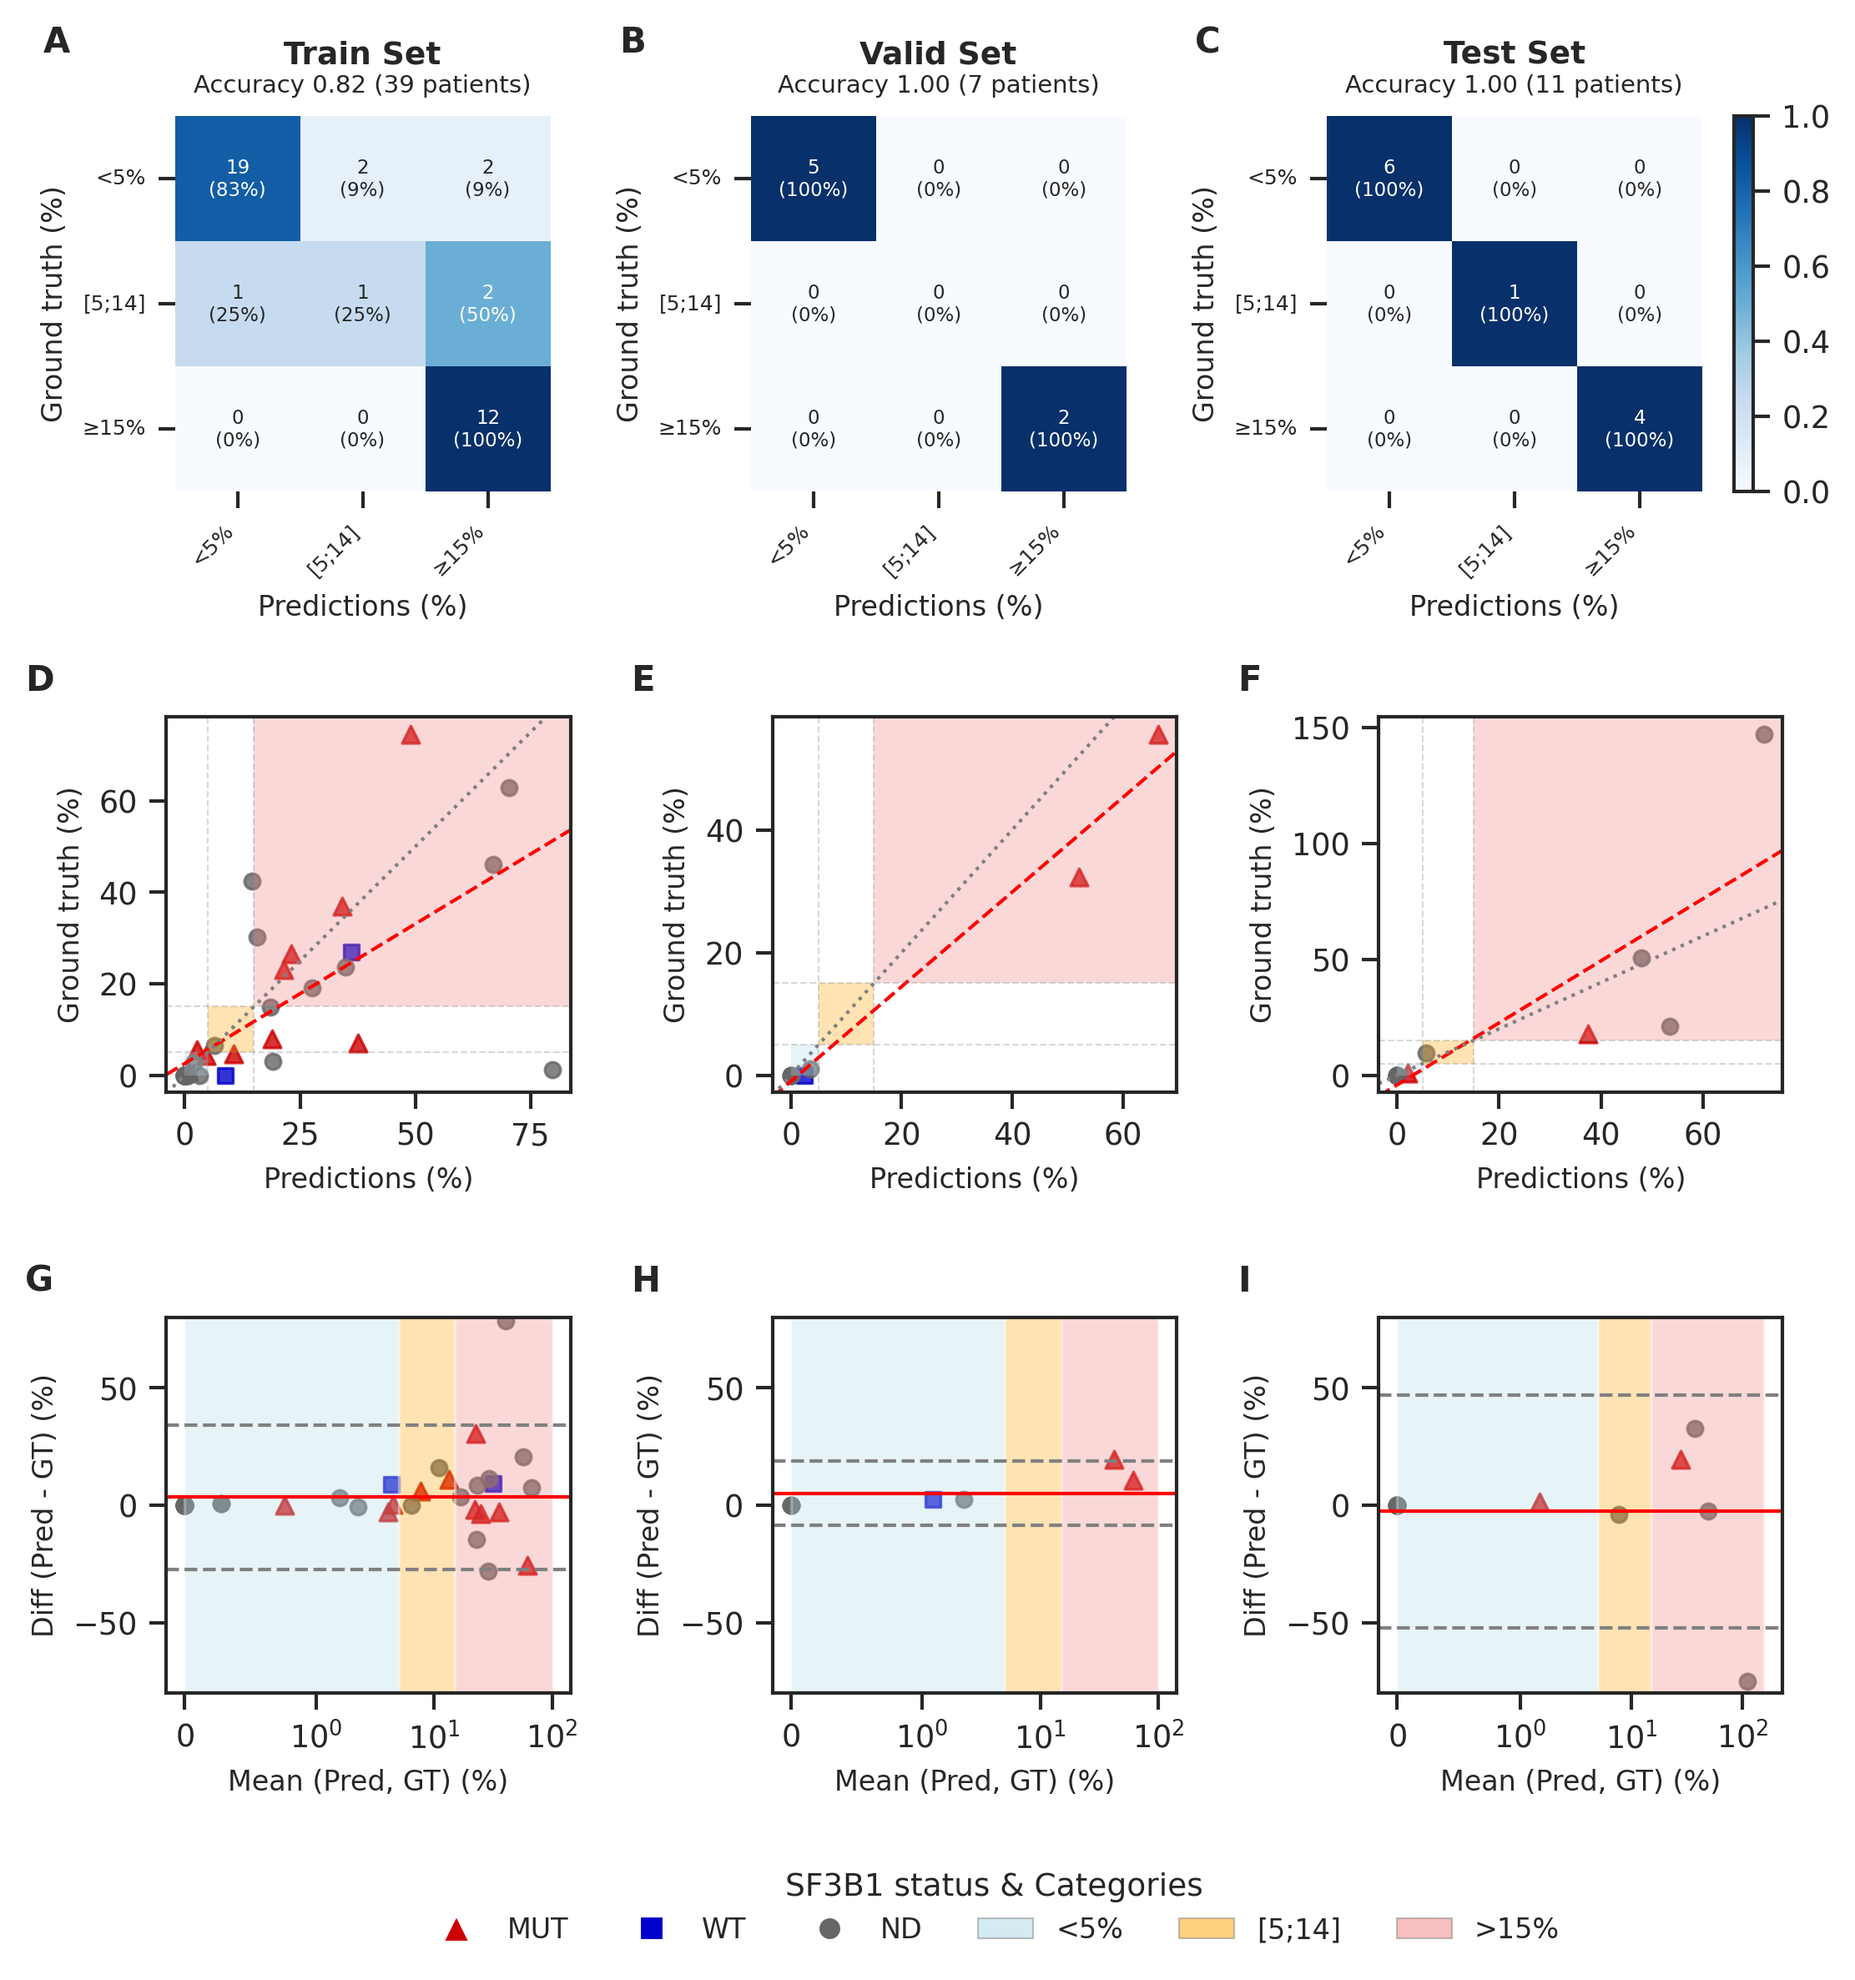
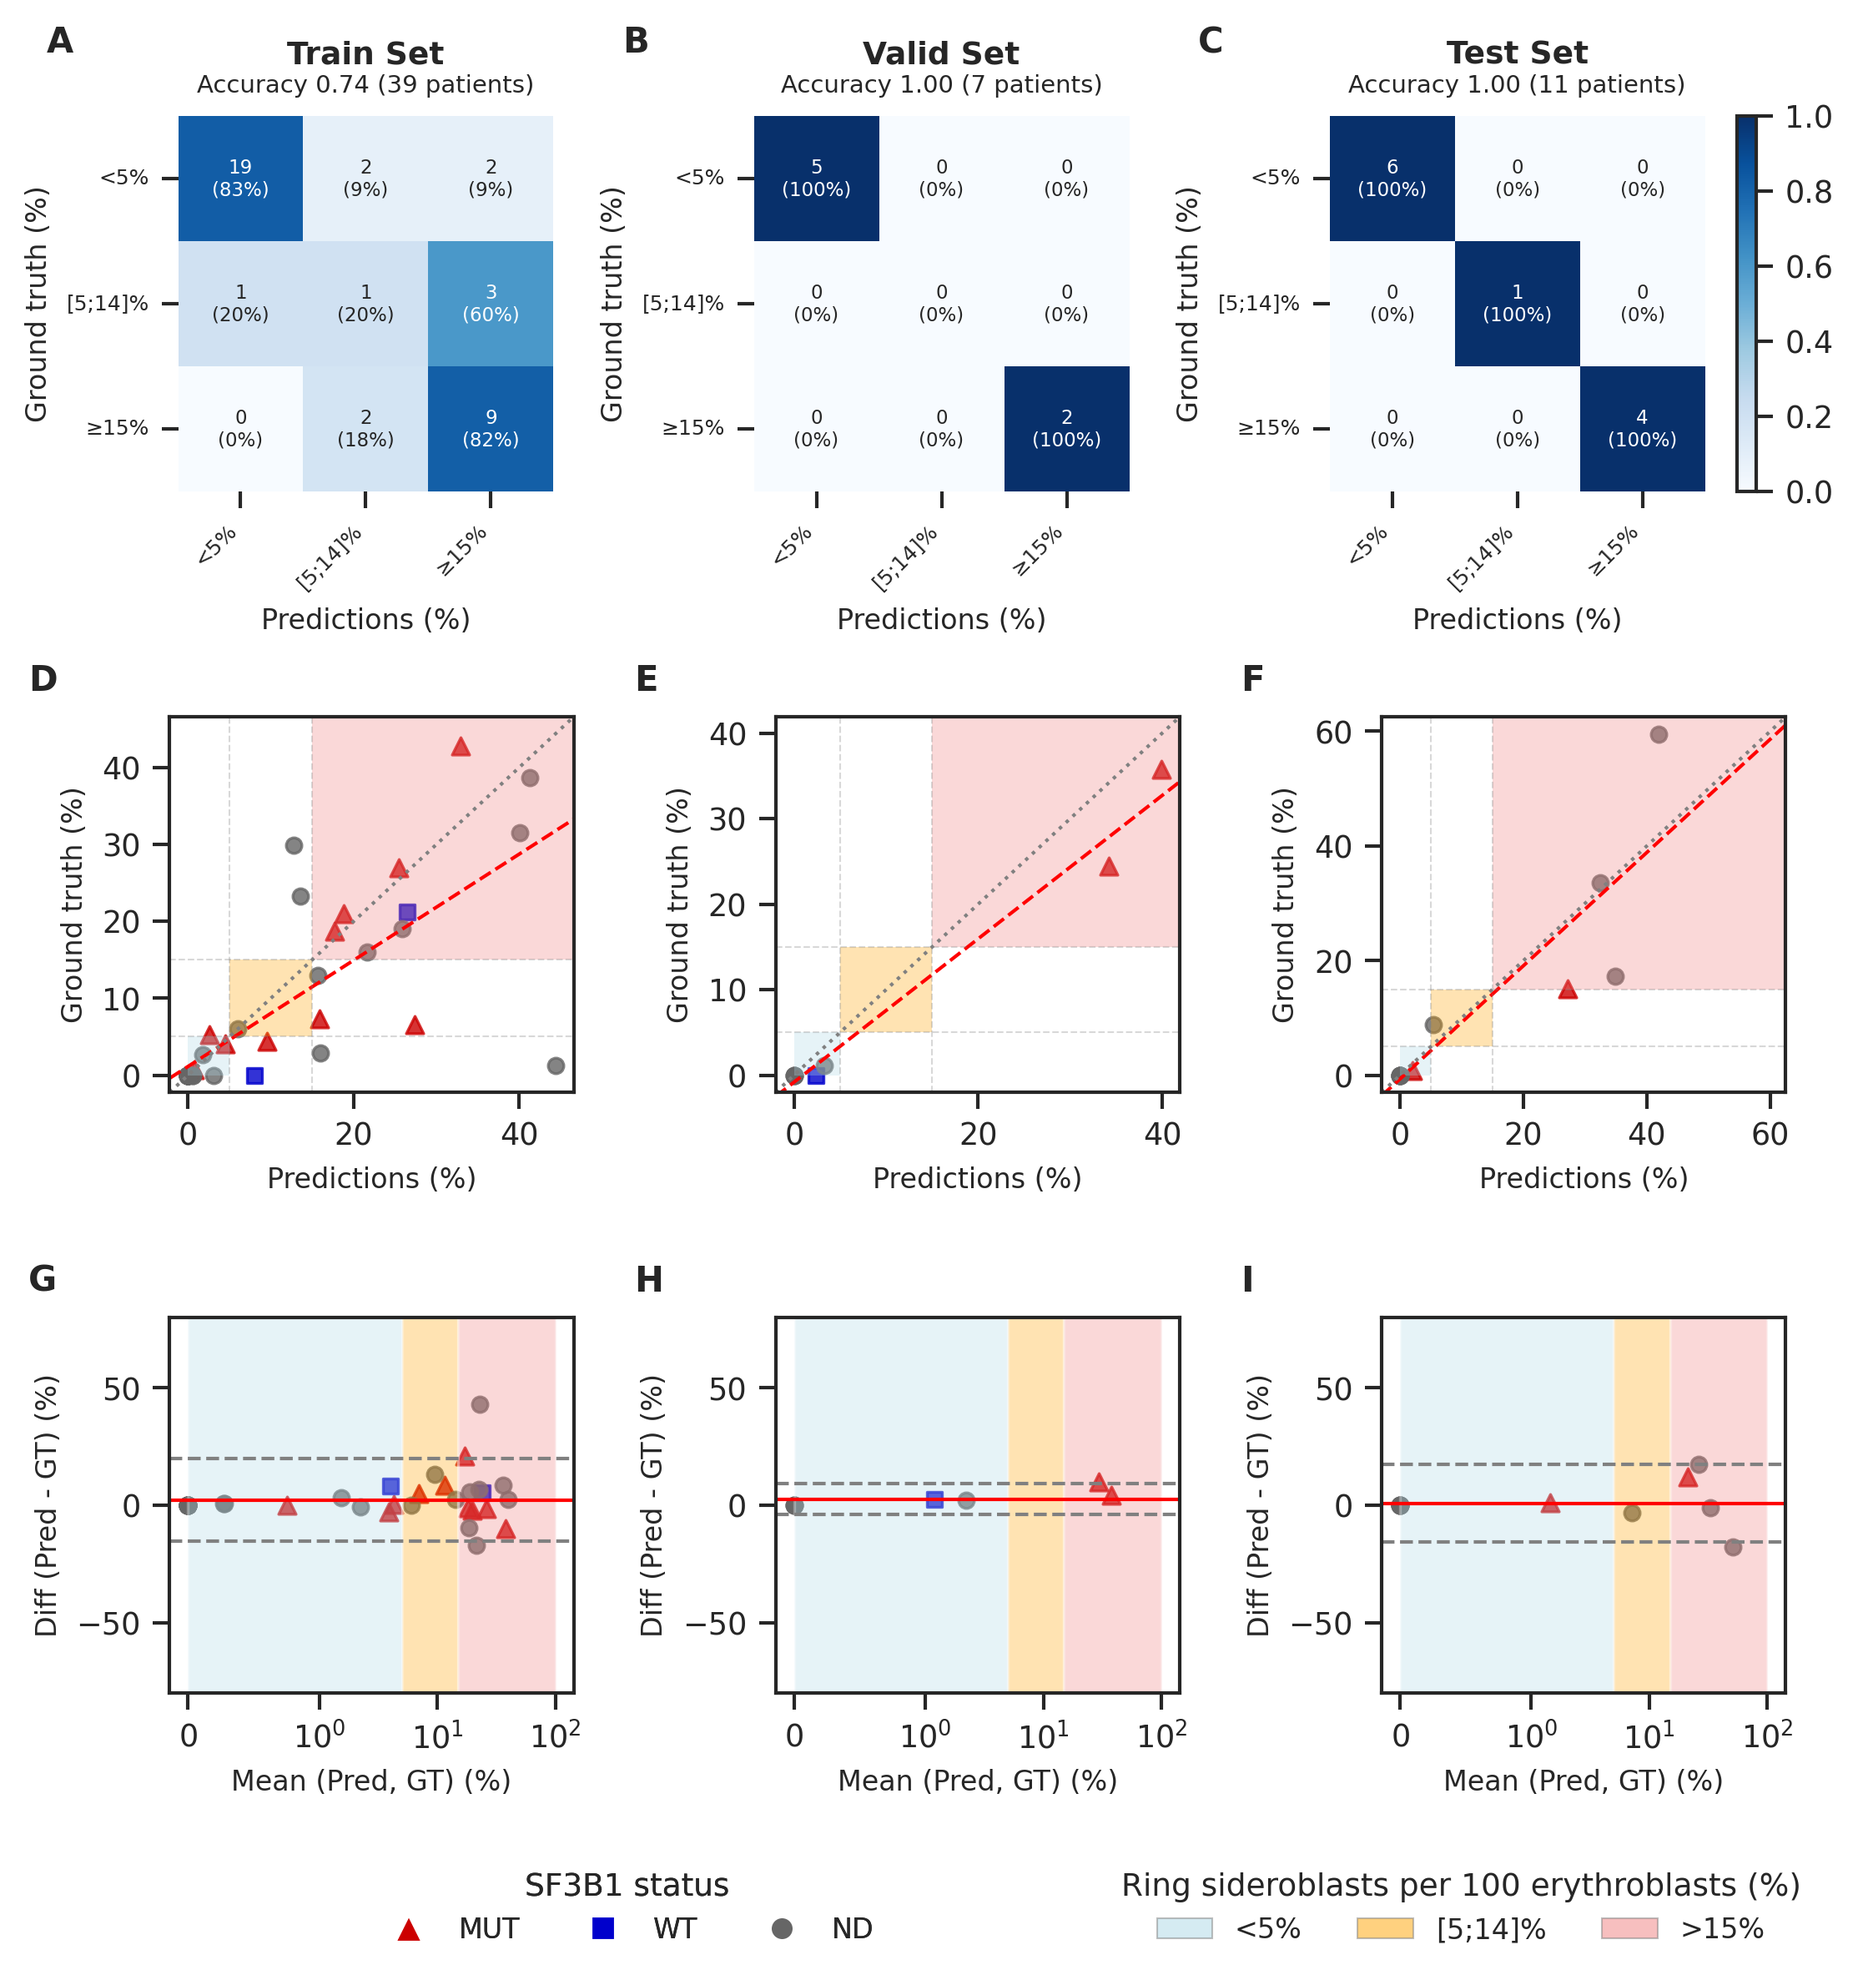
final figure done

diff --git a/figures_scripts/figure3.py b/figures_scripts/figure3.py
@@ -60,10 +60,11 @@ def load_classifier(model_path, device):
     return model
 
 def ratio_to_category(sc, sn):
-    if sn == 0:
-        ratio = 100.0 if sc > 0 else 0.0
+    total = sc + sn
+    if total == 0:
+        ratio = 0.0
     else:
-        ratio = (sc / sn) * 100.0
+        ratio = (sc / total) * 100.0
         
     if ratio < 5:
         return '<5%'
@@ -247,7 +248,7 @@ def main():
             patient_results[split][patient]['SN'] += sn_count
 
     print("Generating figure...")
-    display_categories = ['<5%', '[5;14]', '≥15%']
+    display_categories = ['<5%', '[5;14]%', '≥15%']
     internal_categories = ['<5%', 'entre 5 et 14 %', '>15%']
     splits = ['train', 'valid', 'test']
     display_names = {"train": "Train", "valid": "Valid", "test": "Test"}
@@ -260,9 +261,10 @@ def main():
     pt_status = {s: [] for s in splits}
     
     def calc_ratio(sc, sn):
-        if sn == 0:
-            return 100.0 if sc > 0 else 0.0
-        return (sc / sn) * 100.0
+        total = sc + sn
+        if total == 0:
+            return 0.0
+        return (sc / total) * 100.0
     
     for split in splits:
         if split in patient_results:
@@ -380,6 +382,12 @@ def main():
             xlims = ax_reg.get_xlim()
             ylims = ax_reg.get_ylim()
             
+            # Rendre les axes égaux (même minimum et maximum)
+            min_lim = min(xlims[0], ylims[0])
+            max_lim = max(xlims[1], ylims[1])
+            xlims = (min_lim, max_lim)
+            ylims = (min_lim, max_lim)
+            
             # Droite de régression
             if len(pr) > 1:
                 m, b = np.polyfit(pr, tr, 1)
@@ -460,15 +468,21 @@ def main():
 
     import matplotlib.lines as mlines
     import matplotlib.patches as mpatches
-    legend_elements = [
+    
+    leg1_elements = [
         mlines.Line2D([], [], color='w', marker='^', markerfacecolor='#cc0000', markersize=8, label='MUT'),
         mlines.Line2D([], [], color='w', marker='s', markerfacecolor='#0000cc', markersize=7, label='WT'),
-        mlines.Line2D([], [], color='w', marker='o', markerfacecolor='#666666', markersize=7, label='ND'),
+        mlines.Line2D([], [], color='w', marker='o', markerfacecolor='#666666', markersize=7, label='ND')
+    ]
+    leg1 = fig.legend(handles=leg1_elements, loc='lower right', bbox_to_anchor=(0.45, 0.01), ncol=3, title='SF3B1 status', fontsize=8, title_fontsize=9, frameon=False)
+    
+    leg2_elements = [
         mpatches.Patch(facecolor='lightblue', alpha=0.5, edgecolor='gray', linewidth=0.5, label='<5%'),
-        mpatches.Patch(facecolor='orange', alpha=0.5, edgecolor='gray', linewidth=0.5, label='[5;14]'),
+        mpatches.Patch(facecolor='orange', alpha=0.5, edgecolor='gray', linewidth=0.5, label='[5;14]%'),
         mpatches.Patch(facecolor='lightcoral', alpha=0.5, edgecolor='gray', linewidth=0.5, label='>15%')
     ]
-    fig.legend(handles=legend_elements, loc='lower center', bbox_to_anchor=(0.5, 0.01), ncol=6, title='SF3B1 status & Categories', fontsize=8, title_fontsize=9, frameon=False)
+    fig.legend(handles=leg2_elements, loc='lower left', bbox_to_anchor=(0.55, 0.01), ncol=3, title='Ring sideroblasts per 100 erythroblasts (%)', fontsize=8, title_fontsize=9, frameon=False)
+    fig.add_artist(leg1)
 
     plt.savefig(OUTPUT_FIGURE_PATH, bbox_inches='tight', dpi=300)
     print(f"\nFigure successfully saved: {OUTPUT_FIGURE_PATH}")
